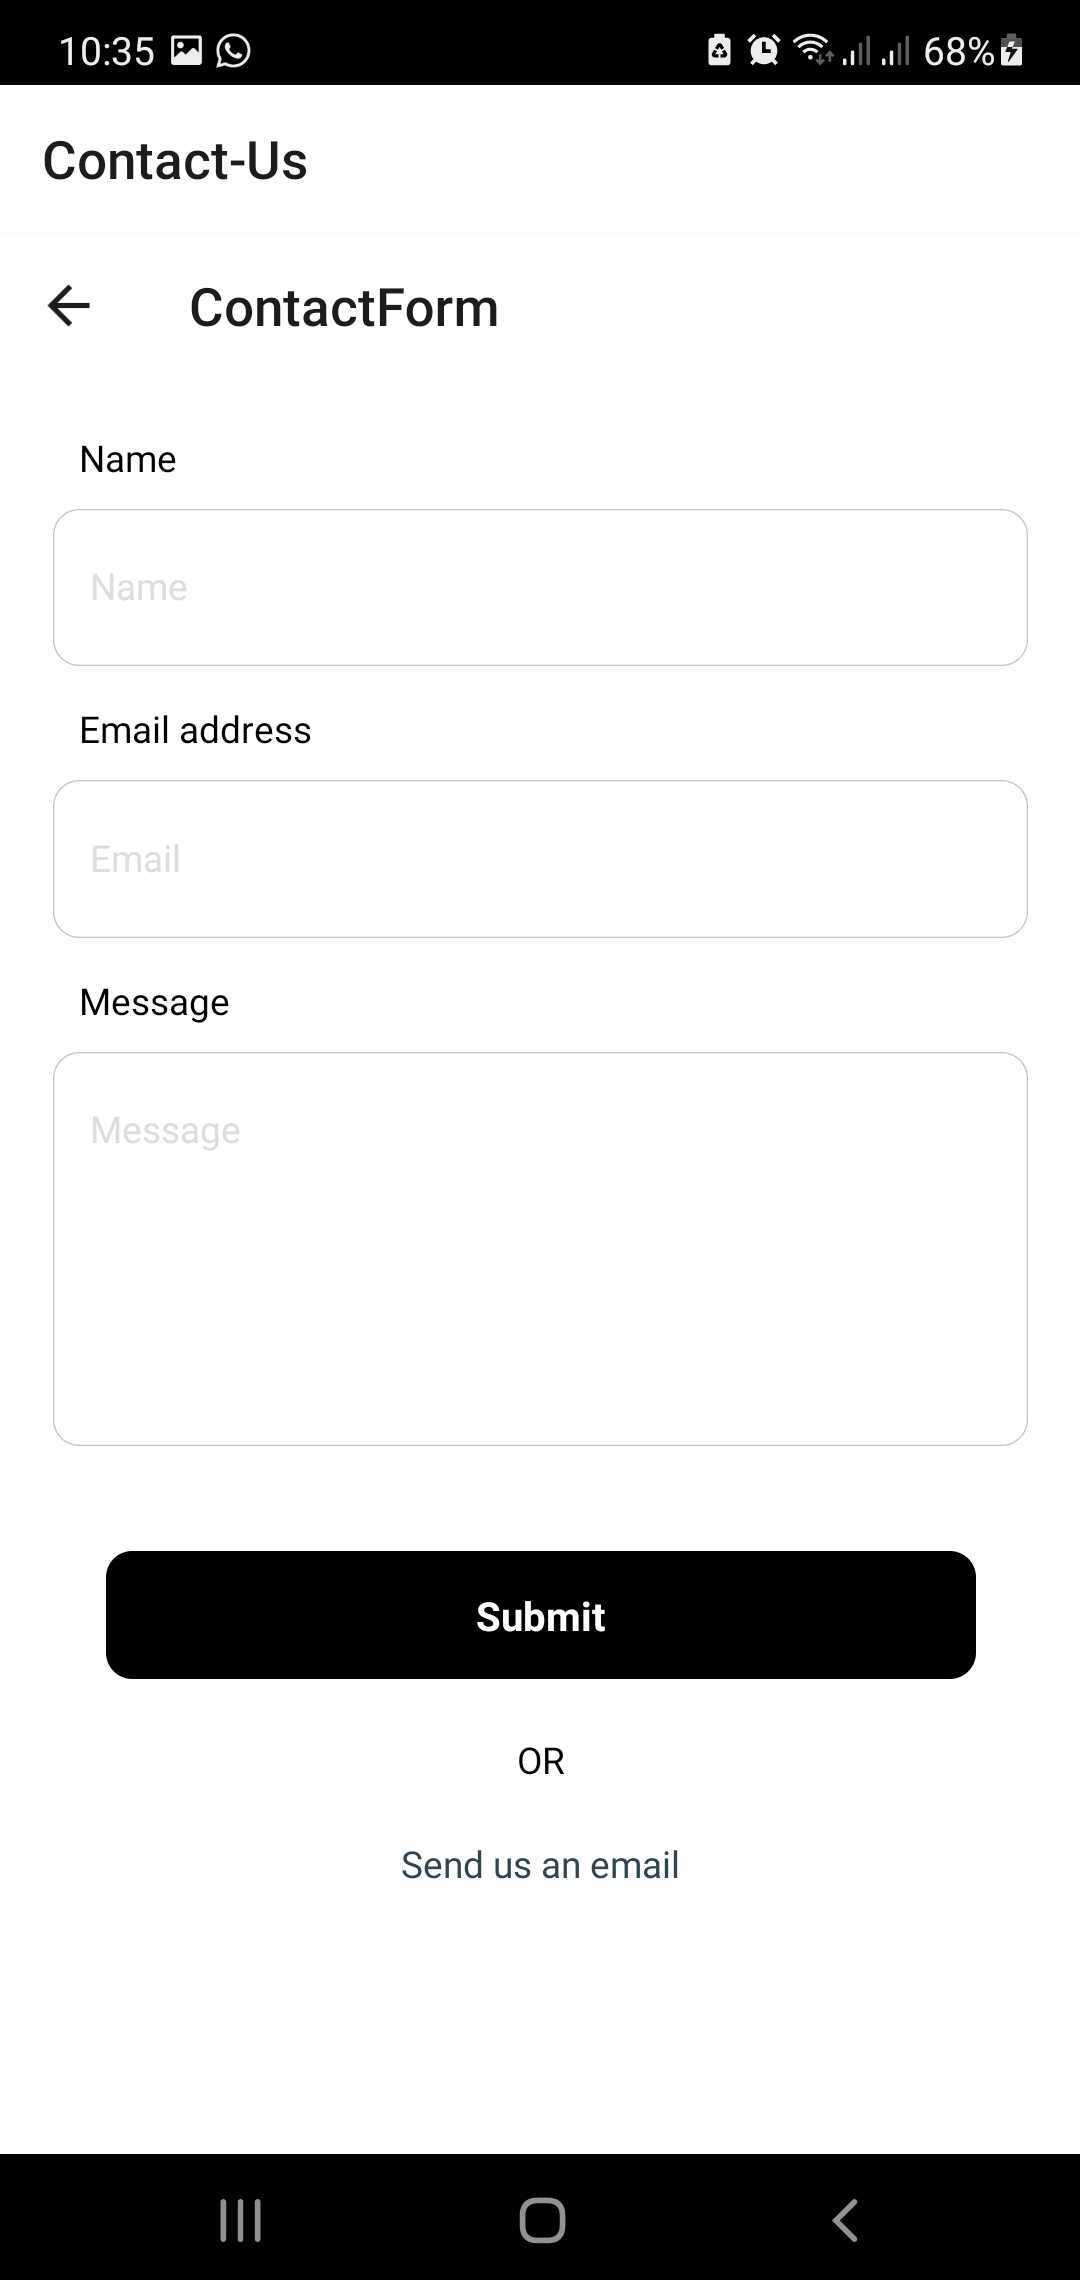
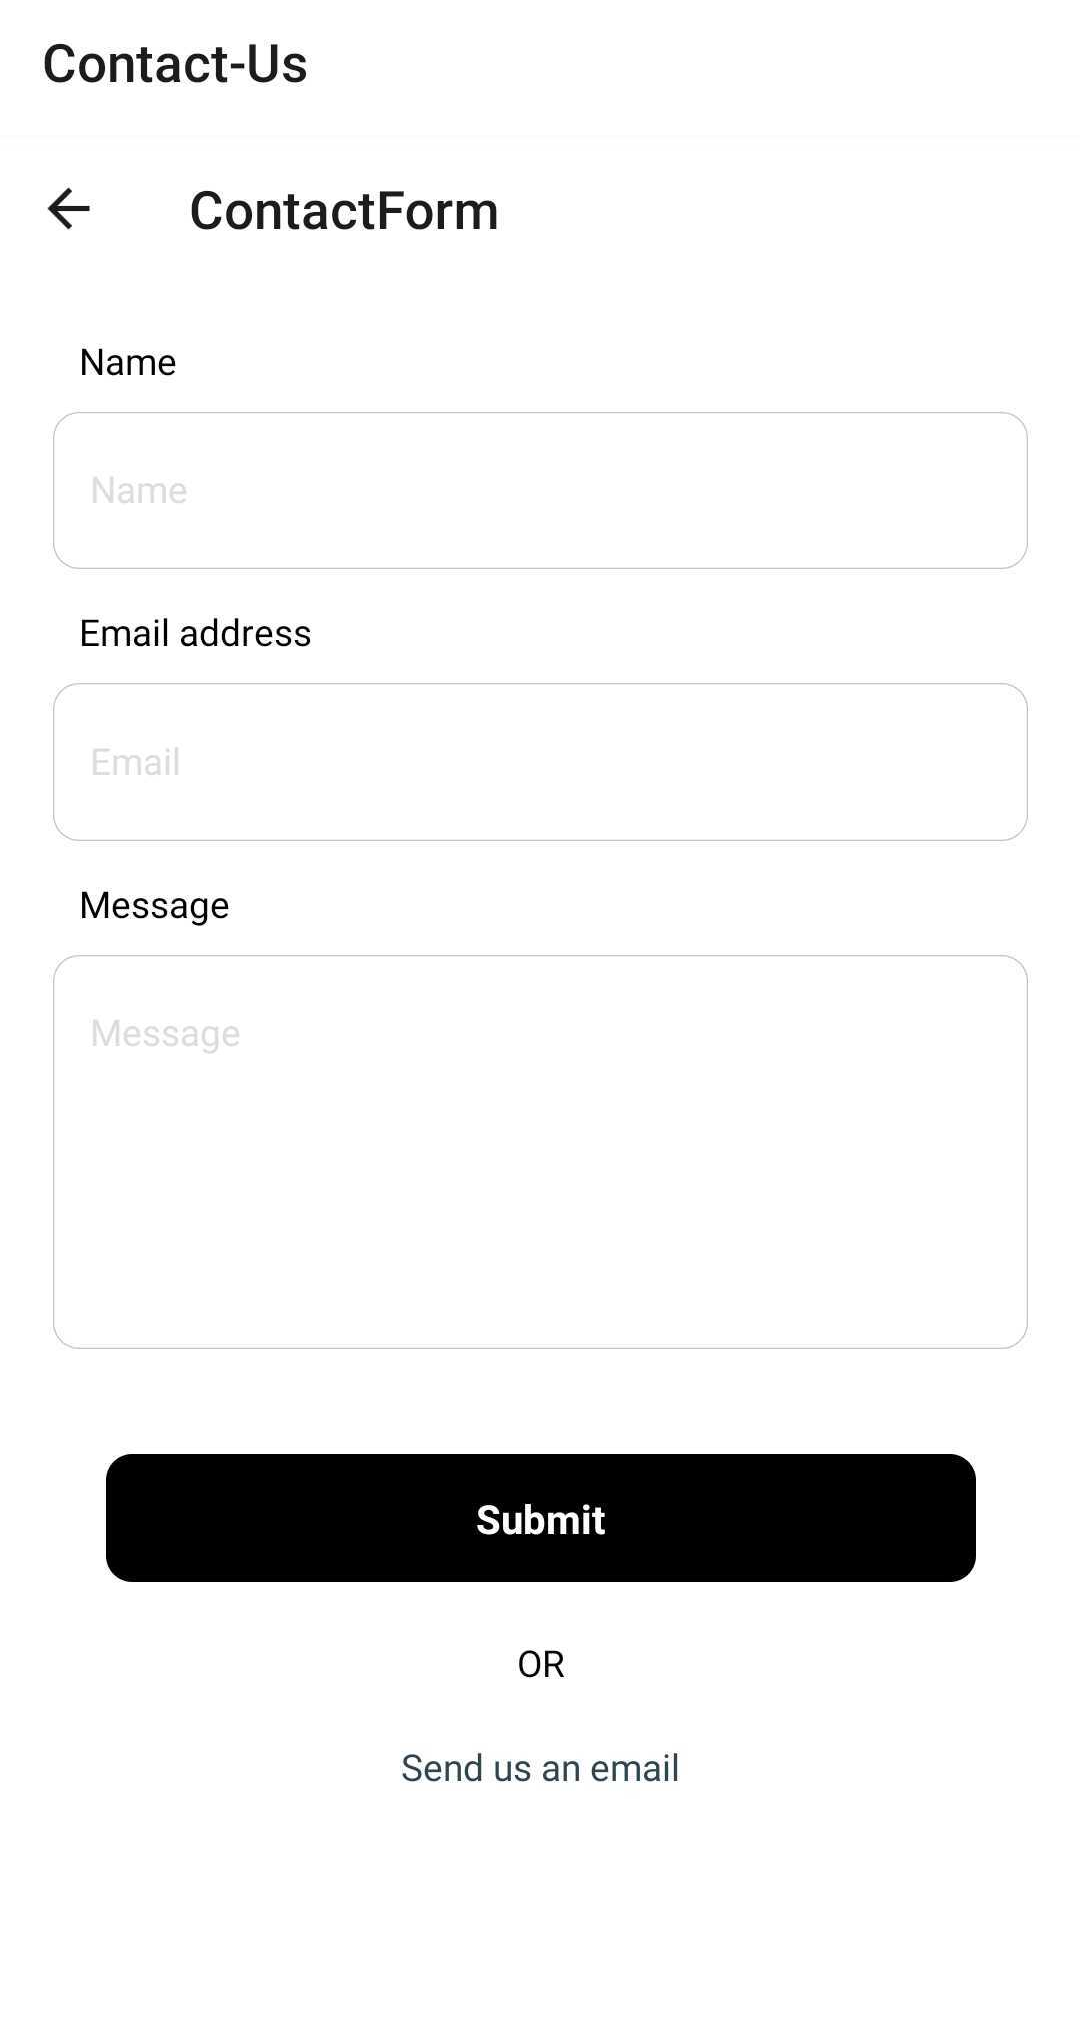
Update preview image and readme file

diff --git a/modules/react-native-contact-us/README.md b/modules/react-native-contact-us/README.md
@@ -1,34 +1,41 @@
-# Contact Us
+# Contact Us React native specs
+
+## Module description
+
 This module will be used by users for contacting the customer support or app owner
-# Features
-User can contact the admin
 
-User can write email to the admin directly 
-## Install Required Dependencies/Packages
-All the required packages are given in the `package.json` file. Make sure all the dependencies are installed before using this module. Copy all the packages from the `dependencies` and `x-dependencies` section and past them in your project's main `package.json` file.
-Here are the required packages for the module:
-```
-  "@react-navigation/native": "6.0.8",
-  "@react-navigation/native-stack": "6.5.0",
-  "react-native-screens": "3.10.2"
-```
-and run this command.
-  ```
-  yarn install
-  ```
+- User can contact the admin
+- User can write an email directly to the admin
 
-## API Calling Methods
-All the api calling methods reside in `api/index.js` file.
+![Module preview](preview.png)
 
-* **sendQuery**
-`sendQuery` method takes an object containing `email`, `message`, `name`, and sends queries to admin.
+## ## Features
 
-# Global Configs
-## Update api url in options/options.js
+[x] This module includes environment variables.
+[ ] This module requires manual configurations.
+[x] This module can be configured with module options.
+[ ] This module requires manual Android setup.
+[ ] This module requires manual iOS setup.
+
+## ## 3rd party setup
+
+No 3rd party account setup required.
+
+## Dependencies
+
+
+Dependencies used:
+- @react-navigation/native  -  https://www.npmjs.com/package/@react-navigation/native
+
+- @react-navigation/native-stack  -  https://www.npmjs.com/package/@react-navigation/native-stack
+
+## ## Module Options
+
+### Global Configs
 
 Update the options/options.js file with your app's backend url. For example, if your app is called `my-app` and has a url of `https://my-app.botics.co`, your options.js file should look like this: 
 
-```
+```javascript
 export const globalOptions = {
     ...
   url: "https://my-app.botics.co",
@@ -36,39 +43,22 @@ export const globalOptions = {
 }
 ```
 
-# Local Configs
-## Update local options  in modules/contact-us/options.js
-```
+### Local Configs
+
+Update local options in `modules/contact-us/options.js`
+
+```javascript
 export default {
   email: "admin@admin.com",
   textMessage: "textMessage"
 };
 ```
-## Manual Setup
 
-1. If you want to use the module directly, or in other modules, you can do so by importing it and using the following properties.
+### Android setup
 
-```javascript
-import ContactUs from "@modules/contact-us";
+No android setup required.
 
-const { title, navigator } = ContactUs;
-```
 
-2. You can call module directly by importing navigator without going through any routing. And pass the params to the module.
+### iOS setup
 
-```javascript
-import { modules } from '@modules';
-const ContactUs = modules[module_index].value.navigator;  //module_index : position of the module in modules folder
-<ContactUs />
-```
-### Module Specifications
-Here is the m[Module Specification Document](https://docs.google.com/document/d/1Qpt2bEOMZx3KbVVhpXwv-b0jKutmCv0lHMPmrBgSf_0/edit?usp=sharing), which provides more information about the module's actual intentions.
-
-### Contributing
-
-Pull requests are welcome. For major changes, please open an issue first to discuss what you would like to change.
-Please make sure to update tests as appropriate.
-
-### License
-
-[MIT](https://choosealicense.com/licenses/mit/)
+No iOS setup required
